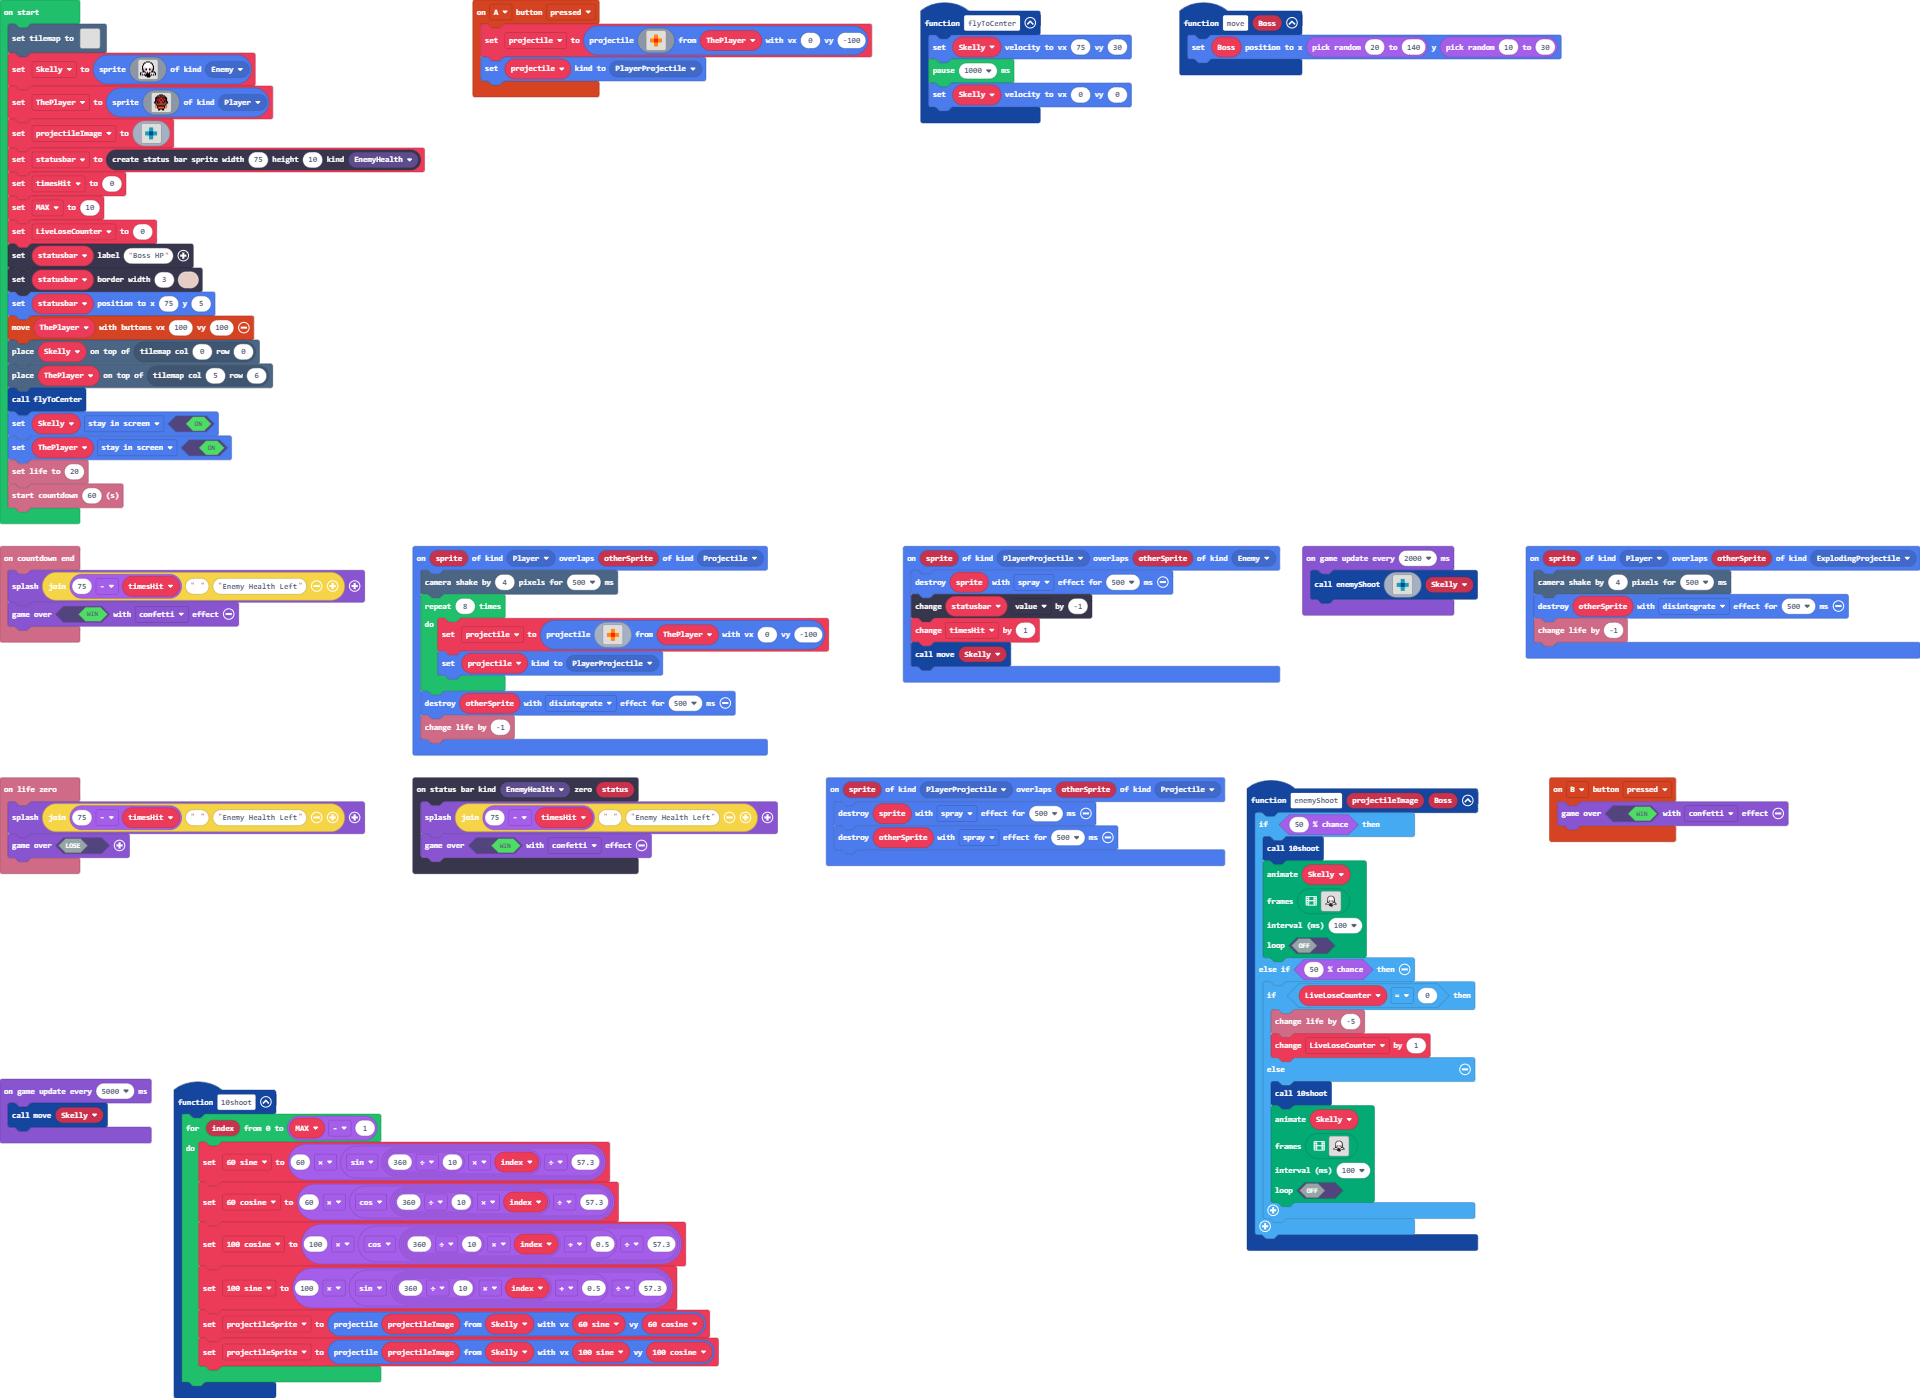
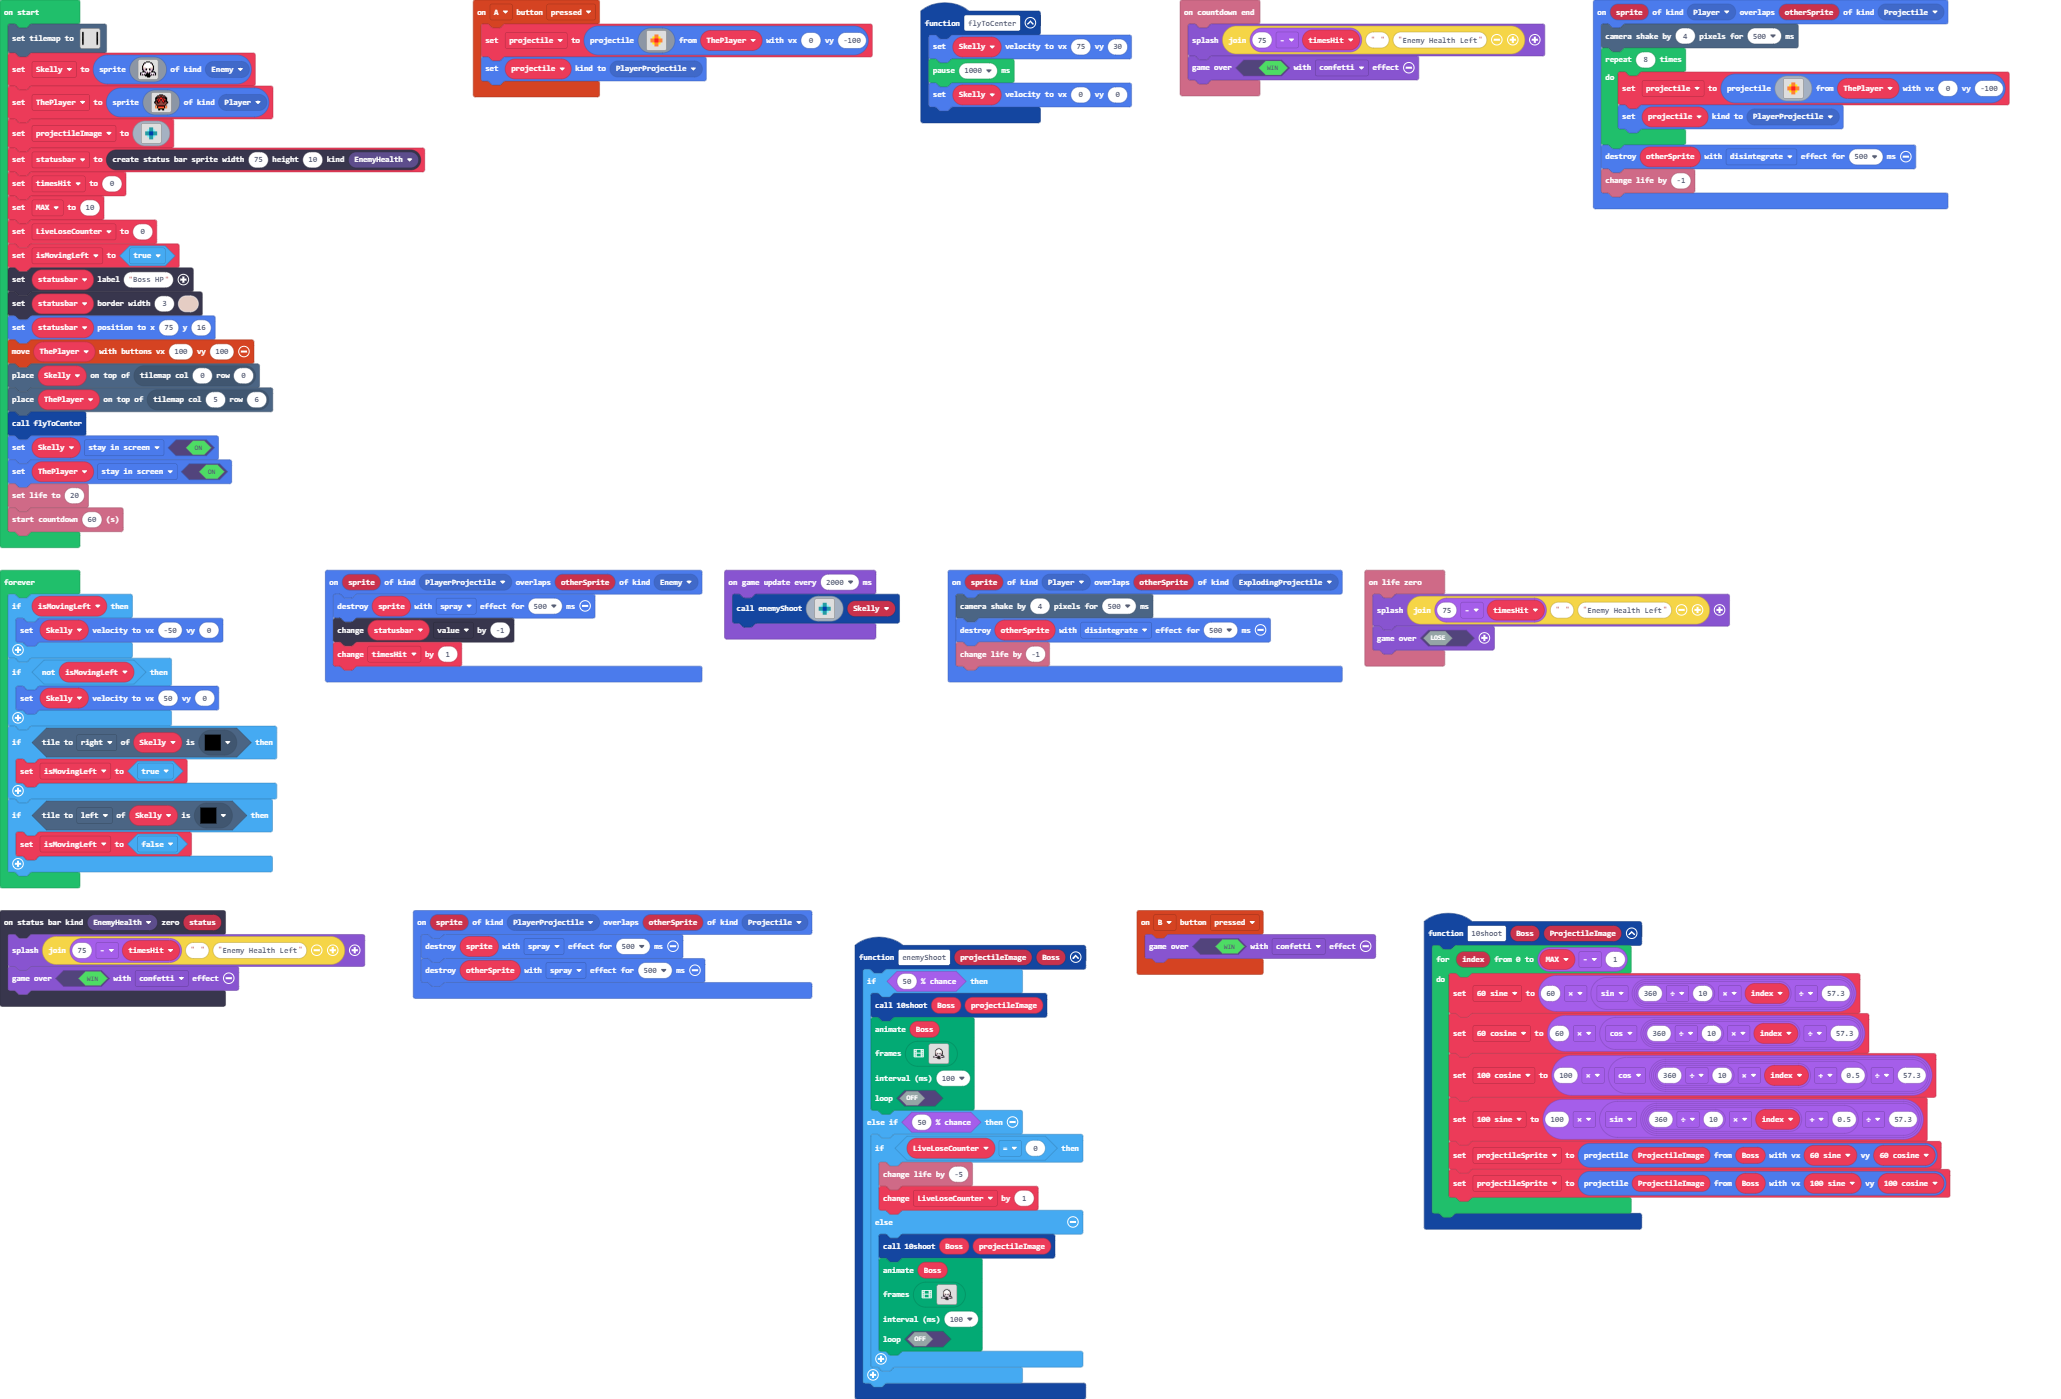
Update main.blocks, main.ts, tilemap.g.jres, tilemap.g.ts

diff --git a/main.ts b/main.ts
@@ -6,14 +6,14 @@ namespace SpriteKind {
     export const HiddenSprite = SpriteKind.create()
     export const lifebar = SpriteKind.create()
 }
-function _10shoot () {
+function _10shoot (Boss: Sprite, ProjectileImage: Image) {
     for (let index = 0; index <= MAX - 1; index++) {
         _60_sine = 60 * Math.sin(360 / 10 * index / 57.3)
         _60_cosine = 60 * Math.cos(360 / 10 * index / 57.3)
         _100_cosine = 100 * Math.cos((360 / 10 * index + 0.5) / 57.3)
         _100_sine = 100 * Math.sin((360 / 10 * index + 0.5) / 57.3)
-        projectileSprite = sprites.createProjectileFromSprite(projectileImage, Skelly, _60_sine, _60_cosine)
-        projectileSprite = sprites.createProjectileFromSprite(projectileImage, Skelly, _100_sine, _100_cosine)
+        projectileSprite = sprites.createProjectileFromSprite(ProjectileImage, Boss, _60_sine, _60_cosine)
+        projectileSprite = sprites.createProjectileFromSprite(ProjectileImage, Boss, _100_sine, _100_cosine)
     }
 }
 controller.B.onEvent(ControllerButtonEvent.Pressed, function () {
@@ -72,7 +72,6 @@ sprites.onOverlap(SpriteKind.PlayerProjectile, SpriteKind.Enemy, function (sprit
     sprite.destroy(effects.spray, 500)
     statusbar.value += -1
     timesHit += 1
-    move(Skelly)
 })
 info.onLifeZero(function () {
     game.splash("" + (75 - timesHit) + " " + "Enemy Health Left")
@@ -84,9 +83,9 @@ sprites.onOverlap(SpriteKind.PlayerProjectile, SpriteKind.Projectile, function (
 })
 function enemyShoot (projectileImage: Image, Boss: Sprite) {
     if (Math.percentChance(50)) {
-        _10shoot()
+        _10shoot(Boss, projectileImage)
         animation.runImageAnimation(
-        Skelly,
+        Boss,
         [img`
             . . . . . . . . . . . . . . . . . . . . . . . . 
             . . . . . . . . . . . . . . . . . . . . . . . . 
@@ -296,9 +295,9 @@ function enemyShoot (projectileImage: Image, Boss: Sprite) {
             info.changeLifeBy(-5)
             LiveLoseCounter += 1
         } else {
-            _10shoot()
+            _10shoot(Boss, projectileImage)
             animation.runImageAnimation(
-            Skelly,
+            Boss,
             [img`
                 . . . . . . . . . . . . . . . . . . . . . . . . 
                 . . . . . . . . . . . . . . . . . . . . . . . . 
@@ -506,9 +505,6 @@ function enemyShoot (projectileImage: Image, Boss: Sprite) {
         }
     }
 }
-function move (Boss: Sprite) {
-    Boss.setPosition(randint(20, 140), randint(10, 30))
-}
 let projectile: Sprite = null
 let projectileSprite: Sprite = null
 let _100_sine = 0
@@ -521,7 +517,7 @@ let timesHit = 0
 let statusbar: StatusBarSprite = null
 let ThePlayer: Sprite = null
 let Skelly: Sprite = null
[2 lines of base64/hex data omitted]
     . . . . . . . . . . 
     . . . . . . . . . . 
     . . . . . . . . . . 
@@ -530,7 +526,7 @@ tiles.setTilemap(tiles.createTilemap(hex`0a0008000000000000000000000000000000000
     . . . . . . . . . . 
     . . . . . . . . . . 
     . . . . . . . . . . 
-    `, [myTiles.transparency16], TileScale.Sixteen))
+    `, [myTiles.transparency16,myTiles.tile2,myTiles.tile16], TileScale.Sixteen))
 Skelly = sprites.create(img`
     . . . . . . f f f f . . . . . . 
     . . . . f f 1 1 1 1 f f . . . . 
@@ -581,9 +577,10 @@ statusbar = statusbars.create(75, 10, StatusBarKind.EnemyHealth)
 timesHit = 0
 MAX = 10
 LiveLoseCounter = 0
+let isMovingLeft = true
 statusbar.setLabel("Boss HP")
 statusbar.setBarBorder(3, 13)
-statusbar.setPosition(75, 5)
+statusbar.setPosition(75, 16)
 controller.moveSprite(ThePlayer, 100, 100)
 tiles.placeOnTile(Skelly, tiles.getTileLocation(0, 0))
 tiles.placeOnTile(ThePlayer, tiles.getTileLocation(5, 6))
@@ -592,9 +589,6 @@ Skelly.setFlag(SpriteFlag.StayInScreen, true)
 ThePlayer.setFlag(SpriteFlag.StayInScreen, true)
 info.setLife(20)
 info.startCountdown(60)
-game.onUpdateInterval(5000, function () {
-    move(Skelly)
-})
 game.onUpdateInterval(2000, function () {
     enemyShoot(img`
         . . . . . . . . 
@@ -606,4 +600,18 @@ game.onUpdateInterval(2000, function () {
         . . . 6 6 . . . 
         . . . . . . . . 
         `, Skelly)
+})
+forever(function () {
+    if (isMovingLeft) {
+        Skelly.setVelocity(-50, 0)
+    }
+    if (!(isMovingLeft)) {
+        Skelly.setVelocity(50, 0)
+    }
+    if (Skelly.tileKindAt(TileDirection.Right, myTiles.tile2)) {
+        isMovingLeft = true
+    }
+    if (Skelly.tileKindAt(TileDirection.Left, myTiles.tile2)) {
+        isMovingLeft = false
+    }
 })

diff --git a/tilemap.g.ts b/tilemap.g.ts
@@ -2,6 +2,34 @@
 namespace myTiles {
     //% fixedInstance jres blockIdentity=images._tile
     export const transparency16 = image.ofBuffer(hex``);
+    //% fixedInstance jres blockIdentity=images._tile
+    export const tile2 = image.ofBuffer(hex``);
+    //% fixedInstance jres blockIdentity=images._tile
+    export const tile4 = image.ofBuffer(hex``);
+    //% fixedInstance jres blockIdentity=images._tile
+    export const tile5 = image.ofBuffer(hex``);
+    //% fixedInstance jres blockIdentity=images._tile
+    export const tile6 = image.ofBuffer(hex``);
+    //% fixedInstance jres blockIdentity=images._tile
+    export const tile7 = image.ofBuffer(hex``);
+    //% fixedInstance jres blockIdentity=images._tile
+    export const tile8 = image.ofBuffer(hex``);
+    //% fixedInstance jres blockIdentity=images._tile
+    export const tile9 = image.ofBuffer(hex``);
+    //% fixedInstance jres blockIdentity=images._tile
+    export const tile10 = image.ofBuffer(hex``);
+    //% fixedInstance jres blockIdentity=images._tile
+    export const tile11 = image.ofBuffer(hex``);
+    //% fixedInstance jres blockIdentity=images._tile
+    export const tile12 = image.ofBuffer(hex``);
+    //% fixedInstance jres blockIdentity=images._tile
+    export const tile13 = image.ofBuffer(hex``);
+    //% fixedInstance jres blockIdentity=images._tile
+    export const tile14 = image.ofBuffer(hex``);
+    //% fixedInstance jres blockIdentity=images._tile
+    export const tile15 = image.ofBuffer(hex``);
+    //% fixedInstance jres blockIdentity=images._tile
+    export const tile16 = image.ofBuffer(hex``);
 
 }
 // Auto-generated code. Do not edit.
